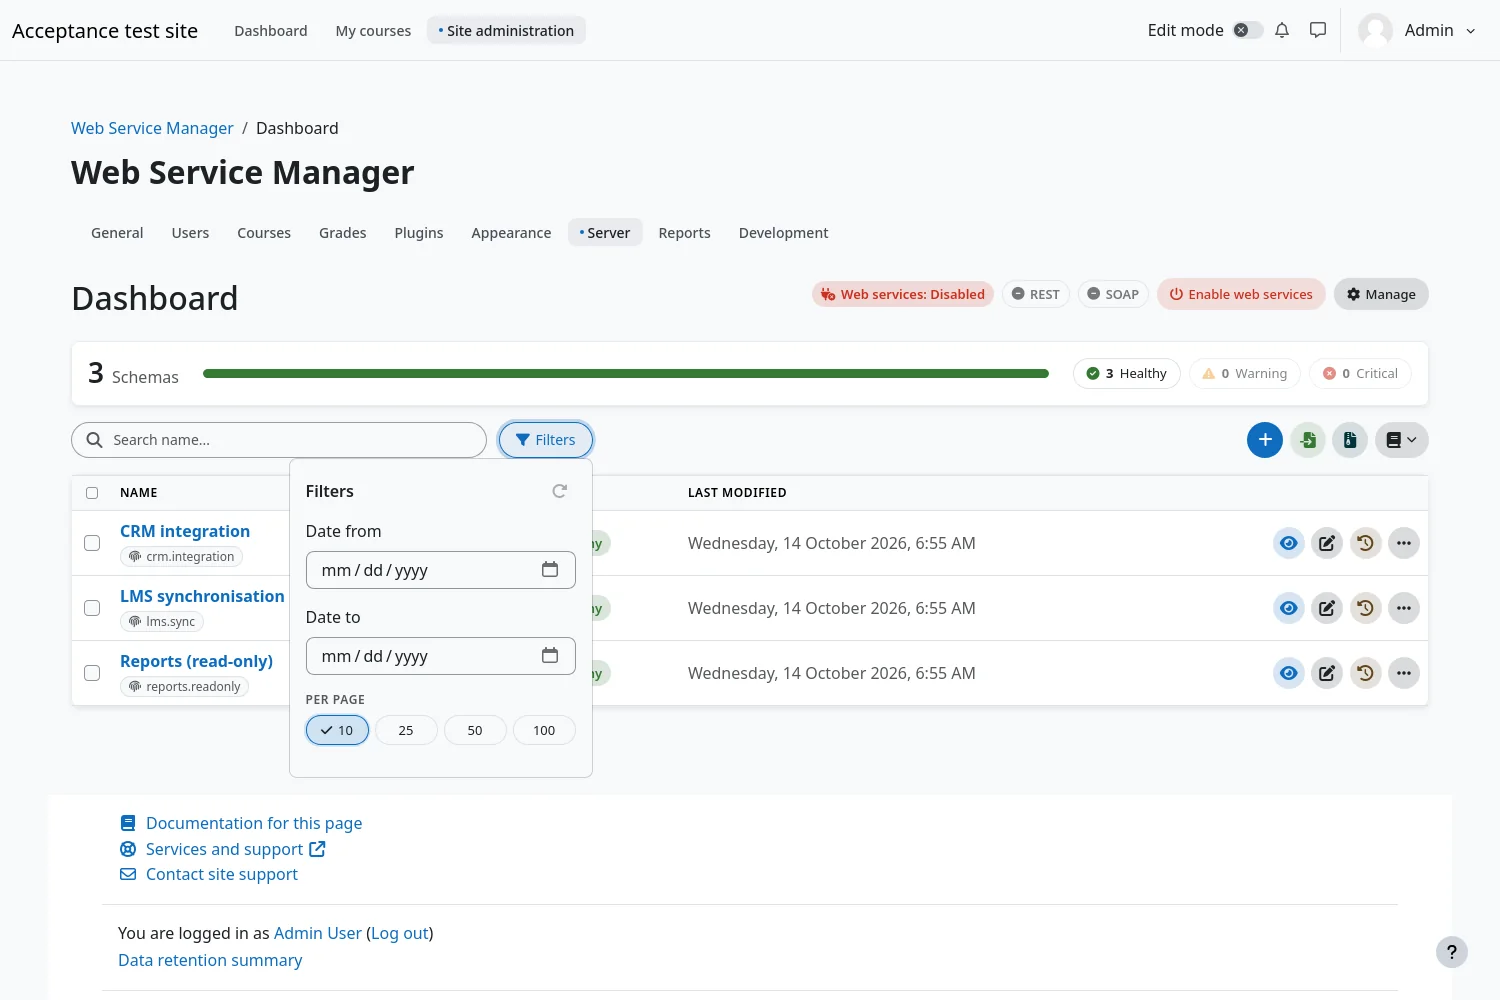
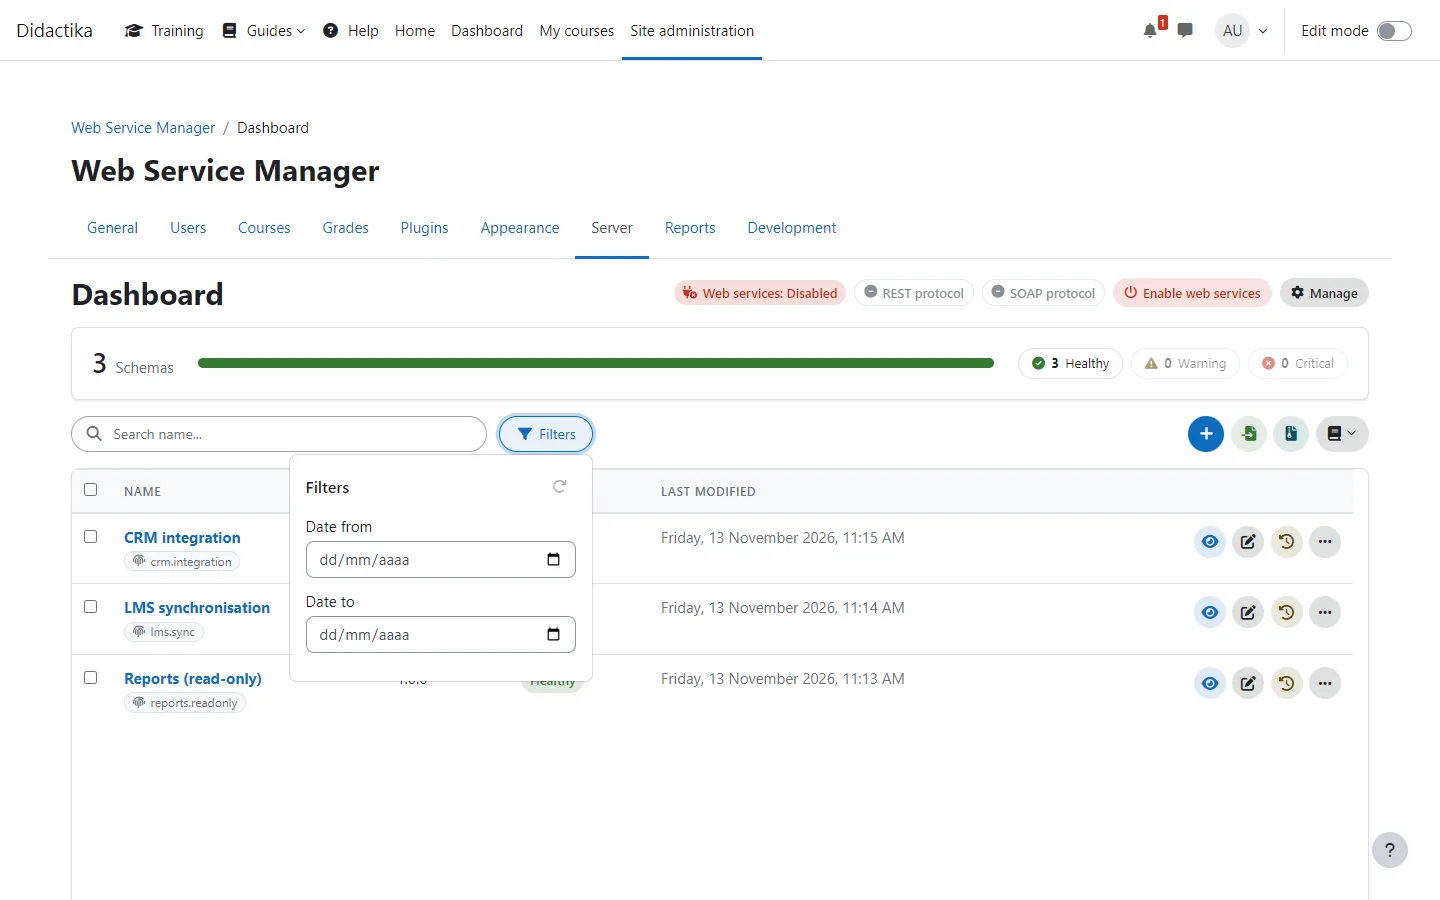
docs: the rows per page are chosen under the list, with the sizes that fit it
The Filters panel of the dashboard holds the dates only; the pager under the list offers the sizes smaller than the
list, and All, as the history and the health checks do. The screenshot of the panel is taken again.

diff --git a/docs/es/guides/dashboard.md b/docs/es/guides/dashboard.md
@@ -35,9 +35,11 @@ Escriba en **Buscar nombre...** y la lista se acota mientras escribe. No hay nin
 
 ## 4. Filtros
 
-**Filtros**, junto a la búsqueda, abre un panel con las fechas (desde y hasta) y el número de esquemas por página. Lo que elija se aplica al instante, así que no hay nada que confirmar. Una insignia redonda en la esquina del botón cuenta los filtros activos, y el botón toma el color del cuadro de búsqueda mientras lo están. El icono de recarga, arriba a la derecha del panel, restablece todos los filtros. El embudo y el icono de recarga son iconos de Moodle, así que un sitio puede cambiar su estilo con Icon Restyle.
+**Filtros**, junto a la búsqueda, abre un panel con las fechas (desde y hasta). Lo que elija se aplica al instante, así que no hay nada que confirmar. Una insignia redonda en la esquina del botón cuenta los filtros activos, y el botón toma el color del cuadro de búsqueda mientras lo están. El icono de recarga, arriba a la derecha del panel, restablece todos los filtros. El embudo y el icono de recarga son iconos de Moodle, así que un sitio puede cambiar su estilo con Icon Restyle.
 
 ![El panel de filtros](asset:dashboard-filters.webp)
+
+La lista conserva la misma altura sea cual sea su contenido y se desplaza dentro de su caja, con los encabezados a la vista. Debajo, **Filas por página** ofrece los tamaños menores que la lista, y **Todos**: una lista de hasta 12 esquemas los muestra todos; una de 13 a 24 ofrece 12 o todos; y así sucesivamente hasta 12, 24, 48 y 96. Las flechas llevan a la página anterior y a la siguiente. El historial de un esquema y sus comprobaciones de estado tienen el mismo paginador.
 
 Lo que pida se guarda en la dirección, de modo que al recargar, o con un enlace que comparta, se ve la misma lista.
 

diff --git a/docs/en/guides/dashboard.md b/docs/en/guides/dashboard.md
@@ -42,11 +42,13 @@ name, the schema ID and the version, and all of them must be there; **Esc** clea
 
 ## 4. Filters
 
-**Filters**, next to the search, opens a panel with the dates (from and to) and the number of schemas per page. What you
+**Filters**, next to the search, opens a panel with the dates (from and to). What you
 choose applies at once, so there is nothing to confirm. A round badge on the corner of the button counts the filters that are on, and the button takes the colour of the
 search box while they are. The reload icon at the top right of the panel puts every filter back. The funnel and the reload icon are icons of Moodle, so a site can restyle them with Icon Restyle.
 
 ![The filters panel](asset:dashboard-filters.webp)
+
+The list keeps the same height whatever it holds and scrolls inside its box, with the headings in view. Under it, **Rows per page** offers the sizes smaller than the list, and **All**: a list of up to 12 schemas shows all of them; one of 13 to 24 offers 12 or all; and so on up to 12, 24, 48 and 96. The arrows move to the previous and the next page. The history of a schema and its health checks have the same pager.
 
 What you ask for is kept in the address, so a refresh, or a link that you share, shows the same list.
 
